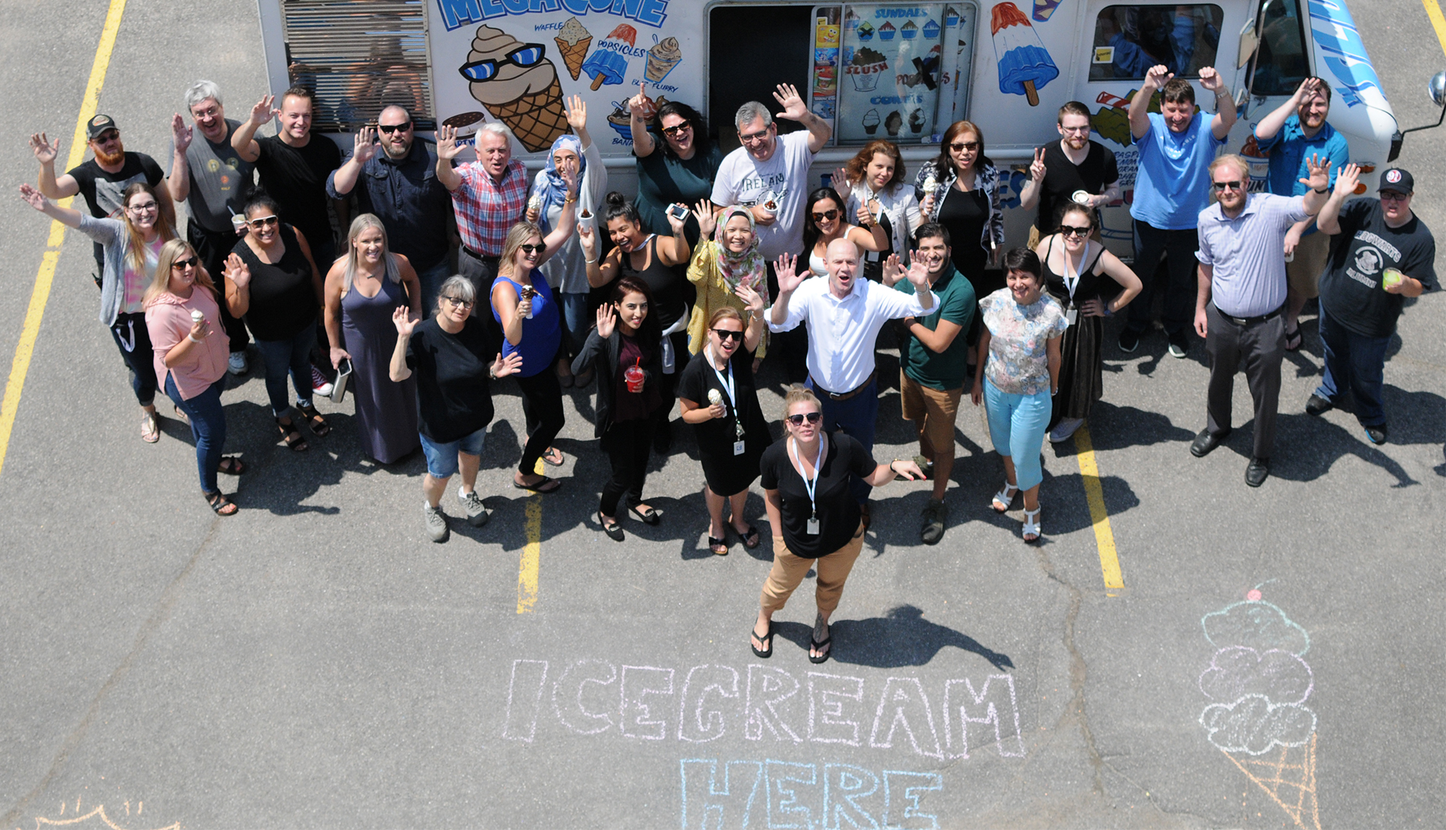
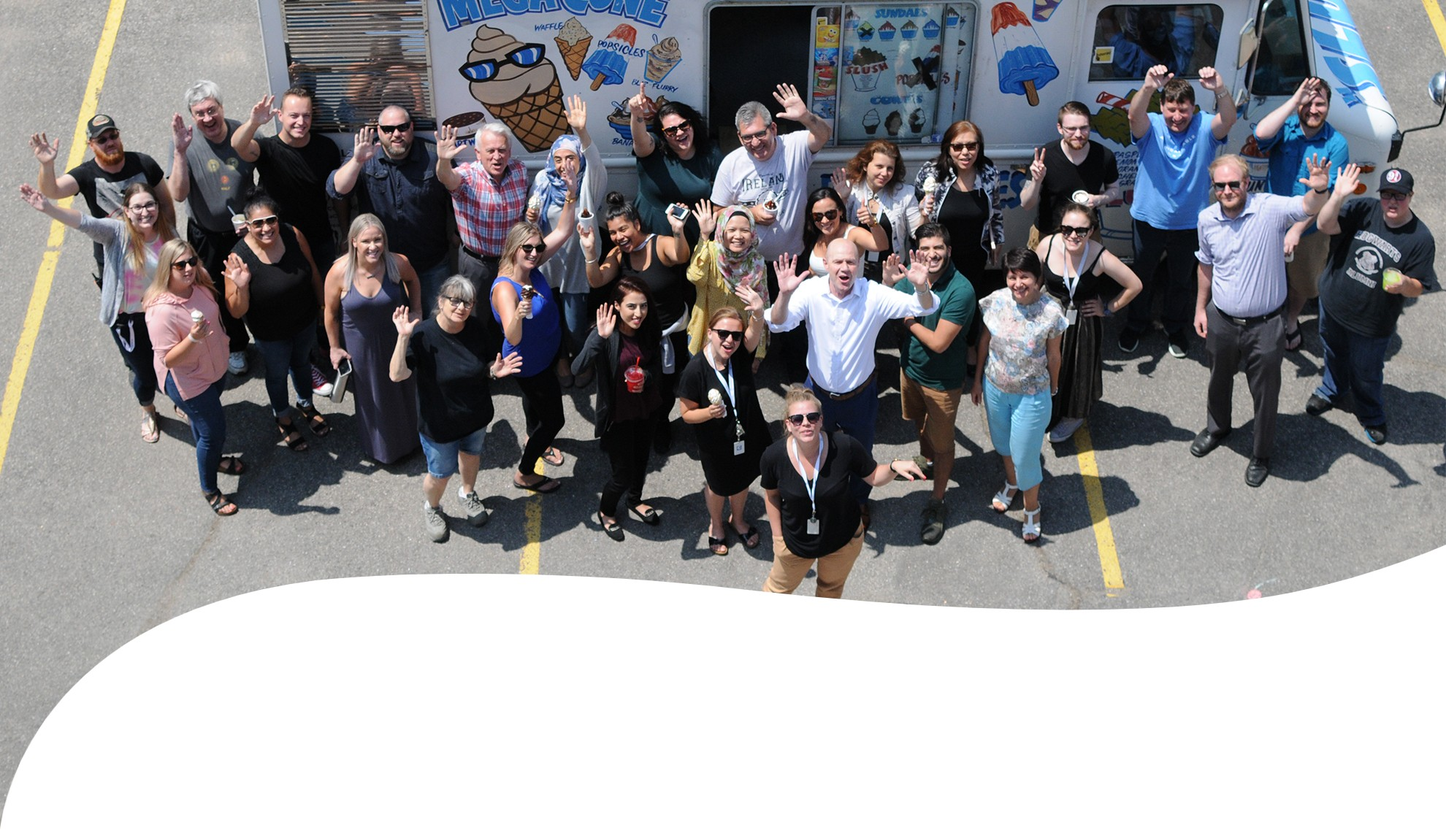
all pages completed 90%

Changed region(s): [[0.0, 0.6464, 1.0, 1.0]]

diff --git a/Views/Zuc/join.html b/Views/Zuc/join.html
@@ -216,7 +216,7 @@
     </div>
 <!-- Main page content-->
 <section class="becomeZucorian-container">
-    <div class="community-hero background-image"></div>
+    <div class="joinZucora-hero background-image"></div>
     <div class="join-box center">
       <h1 class="zucora-website">Become a  Zucorian</h1>
       <div class="center"><a href="#/" class="zuc-btn zuc-btn-secondary margin-top-2 margin-bottom-2" title="Zucorians in community">See open roles </a></div>
@@ -237,17 +237,17 @@
         <div class="perks-boxes">
           <div class="box-item culture-boxShadow center">
             
-              <img src="../../Images/Zuc/images/about/people-icon.png" alt="">
+              <img src="../../Images/Zuc/images/join-zucora/flexible_schedule_icon.png" alt="">
             
               <h3>Flexible Hours</h3>
           </div>
           <div class="box-item culture-boxShadow center">
-            <img src="../../Images/Zuc/images/about/people-icon.png" alt="">
-              <h3>Flexible Hours</h3>
+            <img src="../../Images/Zuc/images/join-zucora/free_parking_icon.png" alt="">
+              <h3>Free Parking</h3>
           </div>
           <div class="box-item culture-boxShadow center">
-            <img src="../../Images/Zuc/images/about/people-icon.png" alt="">
-              <h3>Flexible Hours</h3>
+            <img src="../../Images/Zuc/images/join-zucora/office_celebrations_icon.png" alt="">
+              <h3>Office Celebrations</h3>
           </div>
         </div>
     </div>

diff --git a/Content/Zuc/styles/new_styles.css b/Content/Zuc/styles/new_styles.css
@@ -522,14 +522,14 @@
 }
 
 .org-logo{
-	width:70%;
-	/*height:400px;*/
-	display: table-cell;
-	margin: 0 auto;
-	vertical-align: middle;
+	width: 100%;
+    min-height: 350px;
+    display: grid;
+    justify-content: center;
+    align-items: center;
 }
 .org-logo img{
-	/*width:300px;*/
+	width:70%;
 	display: table-cell;
 	max-width: 100%;
 	margin:0 auto;
@@ -537,6 +537,10 @@
 	vertical-align: middle;
 }
 /*Join Zucora page*/
+.joinZucora-hero{
+	background: url('../../../Images/Zuc/images/join-zucora/joinbanner.jpg')top center no-repeat;
+	background-size: contain;
+}
 .join-box{
 	width:50%;
 	/*box-shadow: 0 2px 68px 0 hsla(0,0%,5%,.2);*/
@@ -569,7 +573,7 @@
 }
 
 .box-item{
-	width:80%;
+	width:90%;
 	height: auto;
 	box-shadow: 0 0 80px rgba(0,0,0,.3);
 }
@@ -597,6 +601,9 @@
     }
     .background-image{
 		height:600px;
+	}
+	.culture-gallery-title > h2{
+		font-size:2em;
 	}
 }
 
@@ -716,6 +723,7 @@
 	}
 	.organization-container{
 		grid-template-columns: auto;
+		padding:2em;
 	}
 	.organization-container > .culture-gallery-title{
 		padding:1em;
@@ -814,9 +822,6 @@
 	}
 	.culture-gallery-title{
 		padding-left:1em;
-	}
-	.culture-gallery-title > h2{
-		font-size:42px;
 	}
 	.join-box{
 		width:50%;

diff --git a/Views/Zuc/community.html b/Views/Zuc/community.html
@@ -263,7 +263,7 @@
                 <img src="../../Images/Zuc/images/community/JA South Western Ontario_Primary.png" alt="">
               </div>
               <div class="org-logo culture-boxShadow">
-                <img src="../../Images/Zuc/images/community/LCF logo.png" alt="">
+                <img src="../../Images/Zuc/images/community/LCF logo.png" alt="" style="width:50%;">
               </div>
               <div class="org-logo culture-boxShadow">
                 <img src="../../Images/Zuc/images/community/habitat-vertical-logo.png" alt="">
@@ -278,7 +278,7 @@
                 <img src="../../Images/Zuc/images/community/heart-stroke.png" alt="">
               </div>
               <div class="org-logo culture-boxShadow">
-                <img src="../../Images/Zuc/images/community/RSP_Logo.png" alt="">
+                <img src="../../Images/Zuc/images/community/RSP_Logo.png" alt="" style="width:50%;">
               </div>
         </div>
      </section>
